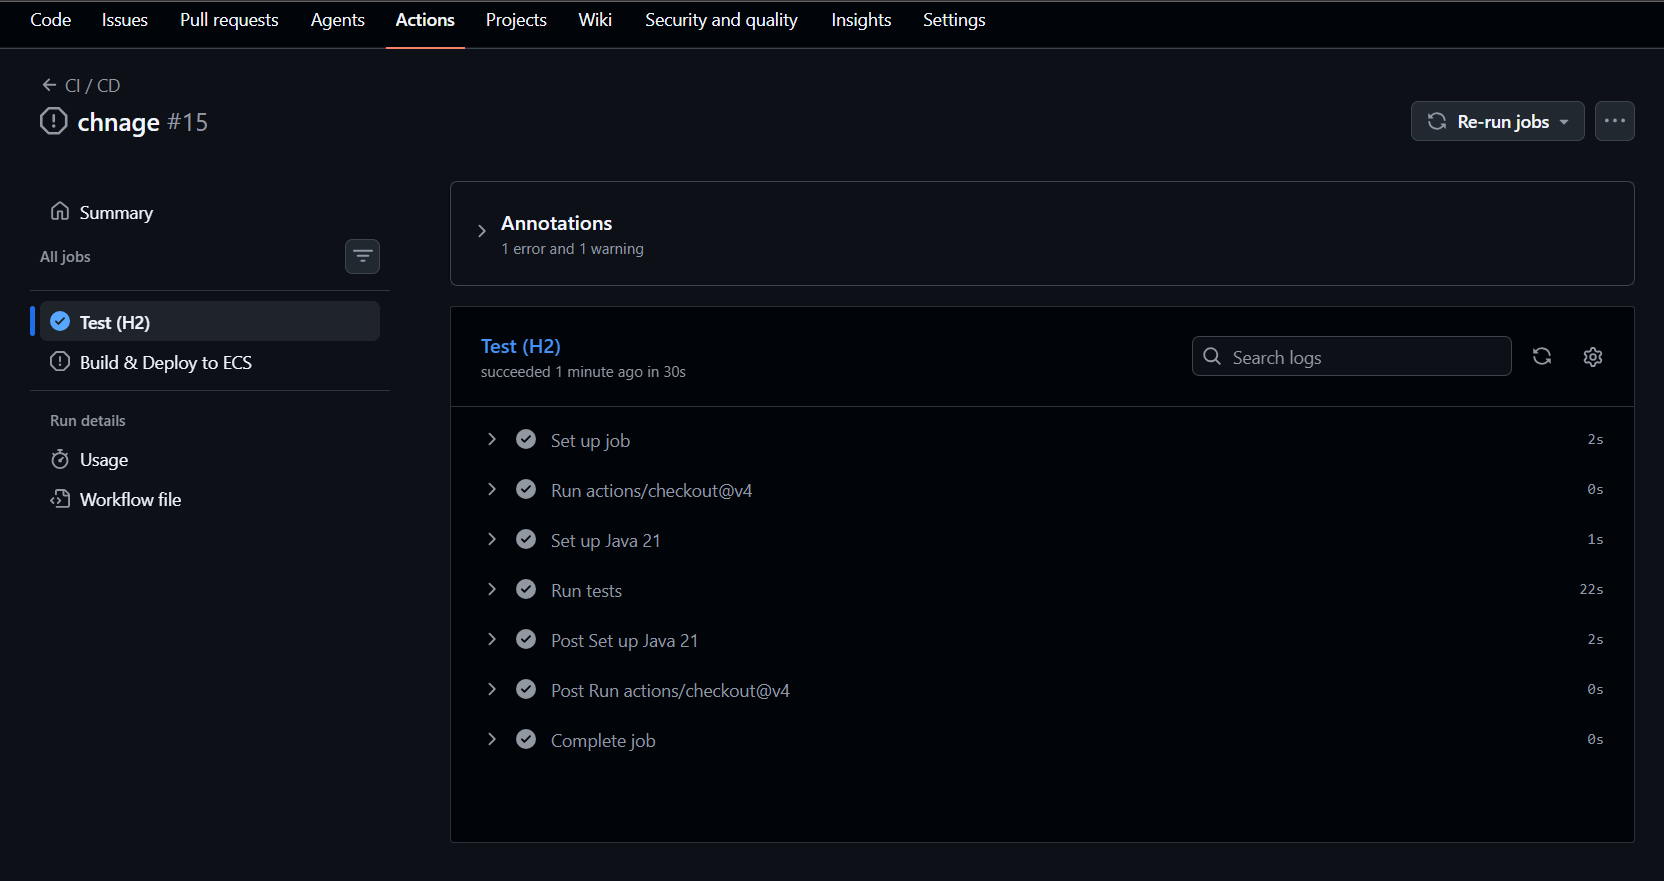
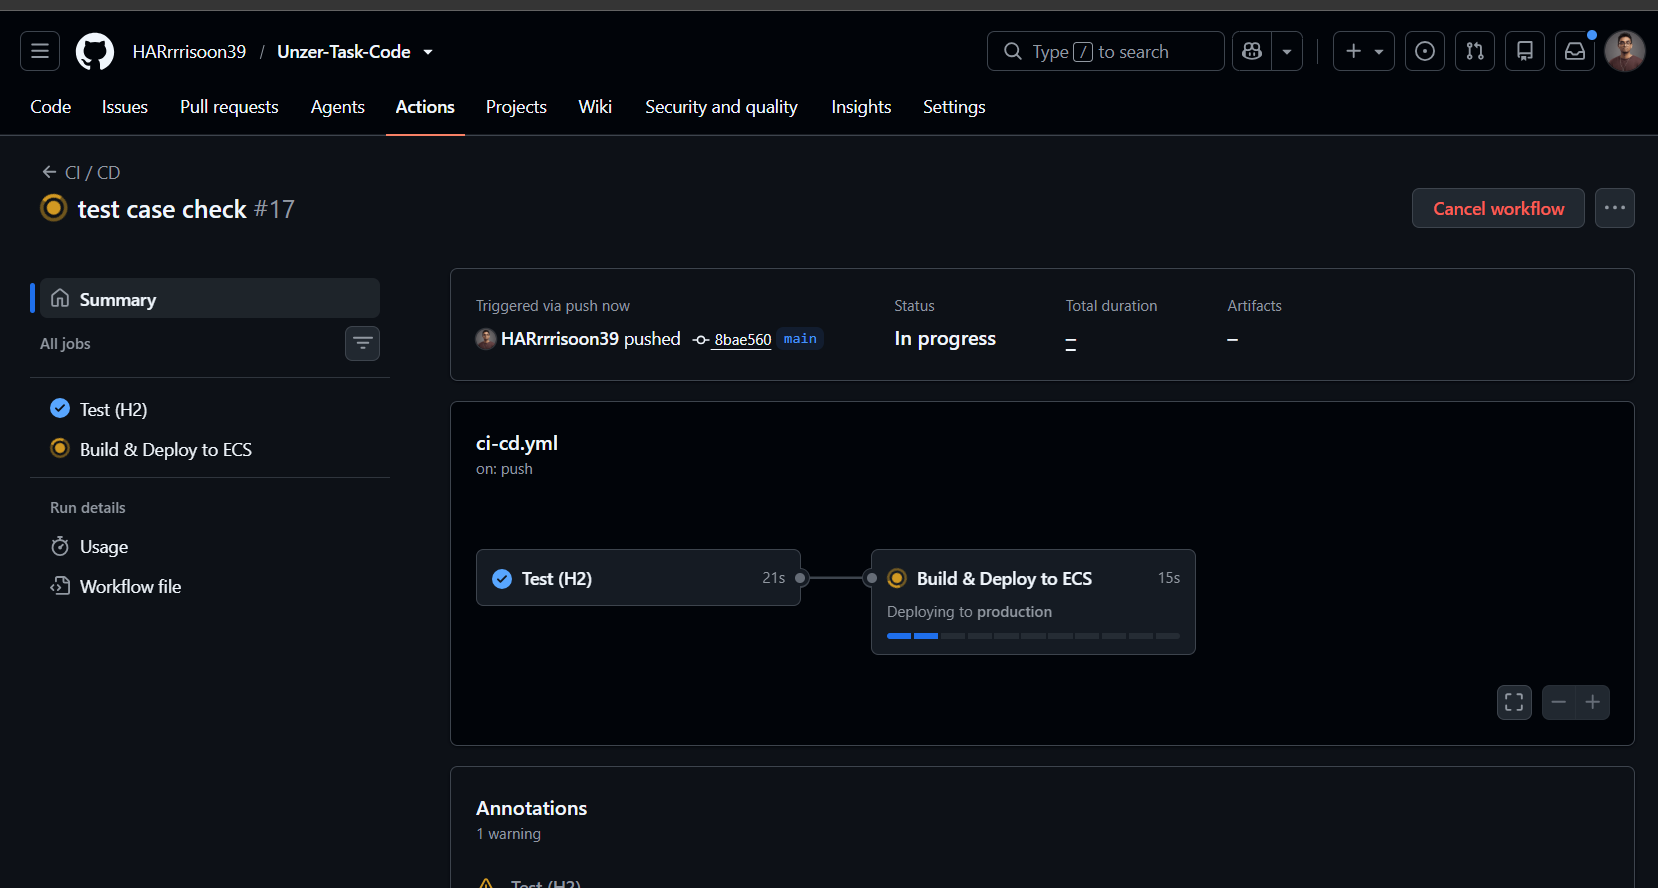
test case check

diff --git a/shop/README.md b/shop/README.md
@@ -19,6 +19,22 @@ mvn spring-boot:run
 - Checkout page: `http://localhost:8080/checkout.html`
 - H2 console: `http://localhost:8080/h2-console` (JDBC URL: `jdbc:h2:mem:shopdb`, user: `sa`, password: empty)
 
+### H2 In-Memory Database
+
+Open `http://localhost:8080/h2-console` while the app is running. Connect with:
+
+| Field | Value |
+|---|---|
+| JDBC URL | `jdbc:h2:mem:shopdb` |
+| User Name | `sa` |
+| Password | *(leave empty)* |
+
+The console shows all tables created by Flyway migrations:
+
+![H2 Console](docs/images/H2Local%20DB.png)
+
+Tables present: `CART`, `CART_ITEM`, `CUSTOMER`, `INVENTORY`, `ORDER_LINE`, `ORDER_STATUS_HISTORY`, `PAYMENT`, `PAYMENT_EVENT`, `PRODUCT`, `PRODUCT_VARIANT`, `RESERVATION`, `SHOP_ORDER`, `flyway_schema_history`.
+
 ---
 
 ## Setup
@@ -45,6 +61,17 @@ mvn spring-boot:run
 ```
 
 The app auto-loads `application-local.yml` and registers the webhook with Unzer on startup. Open `http://localhost:8080/checkout.html` to demo.
+
+---
+
+## CI/CD Pipeline
+
+Every push to `main` triggers the `ci-cd.yml` GitHub Actions workflow with two sequential jobs:
+
+1. **Test (H2)** — runs `mvn test` against the in-memory H2 database (~21 s). Must pass before deployment starts.
+2. **Build & Deploy to ECS** — builds the Docker image, pushes to ECR, and deploys to the `production` ECS service (~15 s).
+
+![CI/CD Pipeline](docs/images/CD.png)
 
 ---
 
